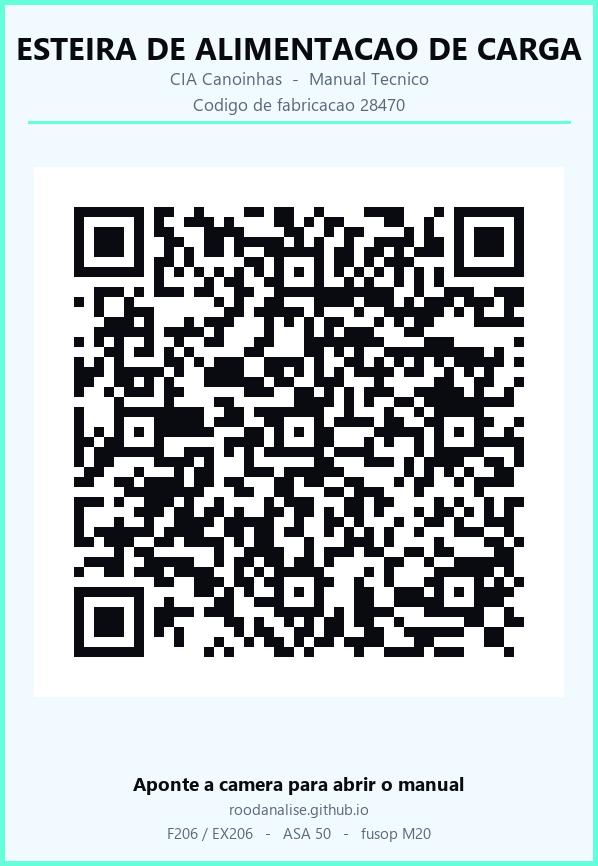
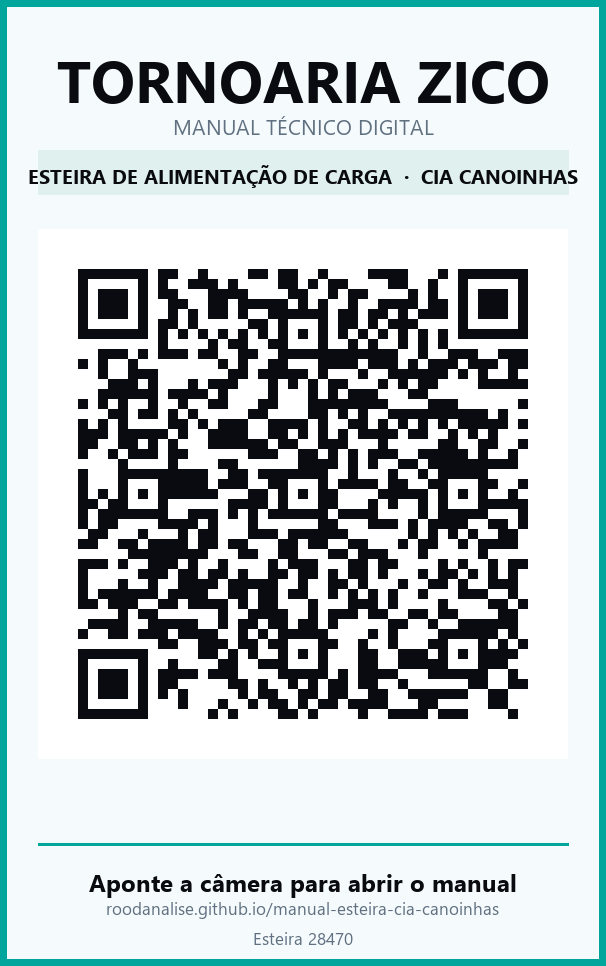
Remove bloco QR do HTML e gera QR code com a marca Tornoaria Zico
- QR code saiu do HTML: era apenas para imprimir e colar na maquina
- Placa do QR com TORNOARIA ZICO, manual tecnico digital e codigo 28470
- QR validado por decodificacao automatica

Changed region(s): [[0.0, 0.0, 1.0, 1.0]]

diff --git a/index.html b/index.html
@@ -381,29 +381,6 @@
         .diag-row b { display: block; font-size: 0.62rem; text-transform: uppercase; letter-spacing: 1.2px; color: #5d748a; font-weight: 700; margin-bottom: 2px; }
         .diag-row span { color: #c0c7d6; text-align: left; }
 
-        /* --- BLOCO QR CODE (CAPA) --- */
-        .qr-block {
-            display: flex; align-items: center; gap: 30px; margin-top: 45px;
-            background: rgba(100, 255, 218, 0.03); border: 1px solid var(--border);
-            border-radius: 8px; padding: 26px 30px; flex-wrap: wrap;
-        }
-        .qr-block .img-wrapper { width: 250px; flex-shrink: 0; }
-        .qr-block img { -webkit-mask-image: none; mask-image: none; }
-        .qr-texto { flex: 1; min-width: 260px; }
-        .qr-texto h3 { margin: 0 0 10px 0; font-size: 1.2rem; }
-        .qr-texto p { font-size: 0.92rem; margin-bottom: 14px; }
-        .btn-acesso {
-            display: inline-flex; align-items: center; gap: 8px;
-            background: transparent; border: 1px solid var(--accent); color: var(--accent);
-            padding: 10px 20px; border-radius: 4px; text-decoration: none;
-            font-weight: 700; font-size: 0.88rem; transition: 0.2s;
-        }
-        .btn-acesso:hover { background: var(--accent); color: var(--bg-body); }
-        .qr-url {
-            font-family: Consolas, monospace; font-size: 0.75rem; color: #5d748a;
-            margin-top: 14px; word-break: break-all;
-        }
-
         /* --- RESPONSIVO / MOBILE --- */
 
         /* 1. Telas grandes */
@@ -473,13 +450,6 @@
 
             /* Botao voltar ao topo */
             #backToTop { width: 44px; height: 44px; bottom: 52px; right: 16px; }
-
-            /* QR code empilha */
-            .qr-block { flex-direction: column; text-align: center; padding: 22px 18px; gap: 20px; }
-            .qr-block .img-wrapper { width: 210px !important; }
-            .qr-texto { min-width: 0; }
-            .qr-texto p { text-align: center; }
-            .qr-url { text-align: center; }
         }
 
         /* 5. Celulares pequenos */
@@ -647,20 +617,6 @@
                     <div class="data-card">
                         <strong>Versão do Documento</strong>
                         <span>01-26</span>
-                    </div>
-                </div>
-
-                <div class="qr-block">
-                    <div class="img-wrapper" style="width: 250px; margin: 0;">
-                        <img src="qrcode-manual.png" alt="QR code de acesso ao manual" style="border-radius: 6px;">
-                    </div>
-                    <div class="qr-texto">
-                        <h3>Acesso Digital</h3>
-                        <p>Aponte a câmera do celular para o código e abra o manual. Funciona em qualquer dispositivo, sem instalar nada.</p>
-                        <a class="btn-acesso" href="https://roodanalise.github.io/manual-esteira-cia-canoinhas/" target="_blank">
-                            <i class="material-icons-round">open_in_new</i> Abrir o manual online
-                        </a>
-                        <p class="qr-url">roodanalise.github.io/manual-esteira-cia-canoinhas</p>
                     </div>
                 </div>
             </section>
